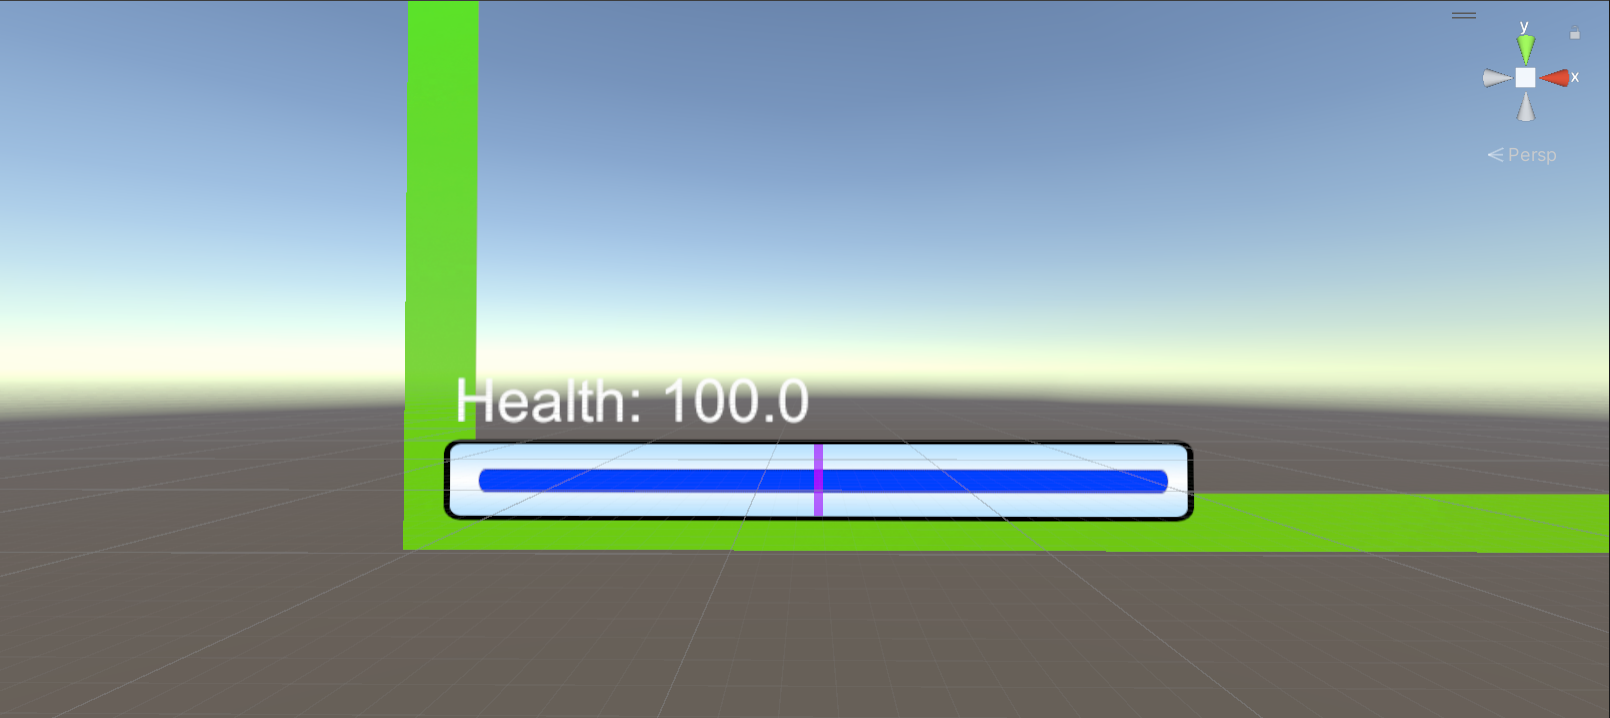
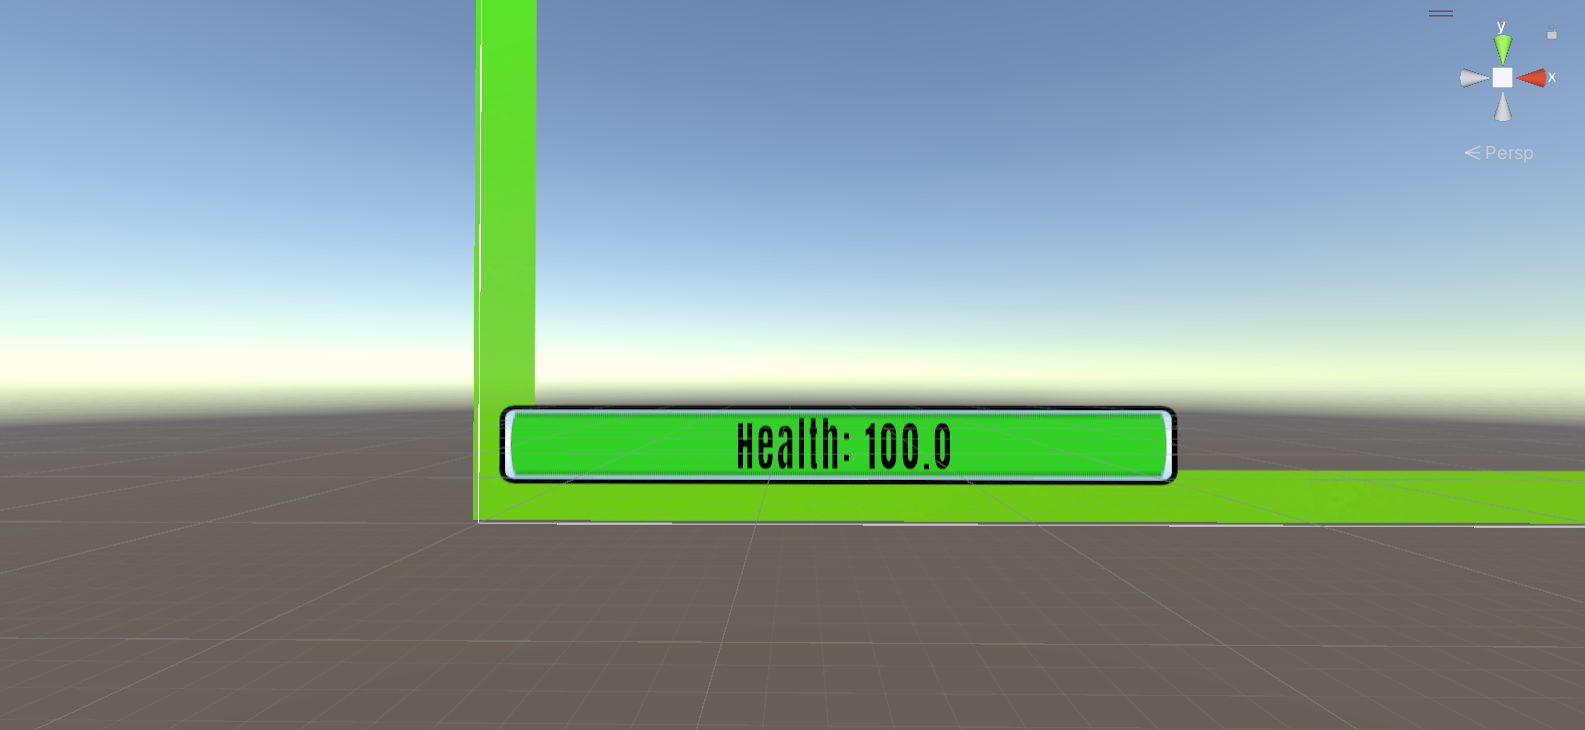
updated docs and added new images

diff --git a/docs/gettingStarted/Arena-Environment-Guide.md b/docs/gettingStarted/Arena-Environment-Guide.md
@@ -110,24 +110,28 @@ The controls are as follows:
 
 The agent has a HUD (_Heads-Up Display_) that displays the following information per episode by default:
 
-* **Health**: The health of the agent, which is a value between `0` and `1`. The agent's health decays over time, and is reset to `1` when the agent collects a reward. The agent's health is displayed as a blue-green-red bar at the bottom of the HUD.
-* **Reward**: The reward collected by the agent, which is a value between `-1` and `1`. The agent's reward is displayed as a text at the top of the HUD, which is updated in real-time as the agent collects rewards. It contains the previous episode's reward, as well as the current episode's reward, respectively.
-* **Episode**: The episode number, which is the number of episodes the agent has played in the arena. The episode number is displayed as a white number at the top of the HUD. **(This is a feature to be added in the future.)**
-* **Notification**: The notification displayed to the agent at the end of an episode. The notification is currently a combination of color gradients and a short animated GIF. This is an optional HUD and only appears if `showNotification` parameter is set to `true` in the configuration file. _Note that this feature has no effect on training, and is only used for playing the game._
+* **Health**: The health of the agent, which is a value between `0` and `1`. The agent's health decays over time, and is reset to `1` when the agent collects a reward. The agent's health is displayed as a green-yellow-red bar at the bottom of the HUD.
+* **Reward**: The reward collected by the agent, which is a value between `-1` and `1`. The agent's reward is displayed as a text at the top of the HUD, which is updated in real-time as the agent collects rewards. It contains the previous episode's reward (not valid if the current arena is the first), as well as the current episode's reward.
+* **Yaml File Details**: The YAML file details of the current yaml file used, which is displayed at the top-right of the HUD. This is an integer that contains the arena number out of total arenas, and the total number of objects spawned as an integer.
+* **Notification**: The notification displayed to the agent at the end of an episode. The notification is currently a combination of color gradients and a short animated GIF. This is an optional HUD and only appears if `showNotification` parameter is set to `true` in the configuration file. _Note that this feature has no effect on training, and is only used for play mode._
 
 |![](../../docs/figs/Agent-HUD/agent-health.png) | ![](../../docs/figs/Agent-HUD/agent-REWARD.png)|
 |---|---|
 |![](../../docs/figs/Agent-HUD/notification-bad.png) | ![](../../docs/figs/Agent-HUD/notification-good.png)|
+|![](../../docs/figs/Agent-HUD/yaml-file-data.png)
+
 
 ### Arena/Agent Limitations
 
-The arena has a few limitations, which are as follows:
+The arena/agent has a few limitations to be considered, which are as follows:
 
 1. Only a single agent _per_ arena is supported, both for play and training.
 2. The agent can only move on the ground, and cannot move on the walls.
 3. The agent cannot move through objects (except for the hot/death zones).
 4. The agent cannot jump or fly.
 5. The agent cannot pick up objects (however, this is a feature to be added in the future).
+6. The arena is reset _only_ when the health of the agent reaches `0`, or when the `R` key is pressed (in play mode). This is a limitation as the agent cannot reset the arena itself, and the arena can only be reset by the player or the training environment.
+7. The logic of spawning objects in the arena is fixed and currently prioritises the agent over other objects. Furthermore, the current spawn logic dictates that objects spawn in the order they are defined in the configuration file.
 
 ### Agent Properties
 

diff --git a/README.md b/README.md
@@ -36,36 +36,36 @@ The Animal-AI environment and packages are currently tested on **Windows 11**, *
 ## Features
 
 **Interdisciplinary Research Platform:**
-- Facilitates research in human, animal, and artificial cognition.
-- Supports cross-disciplinary studies.
-- Enables comparative assessments among humans, animals, and artificial intelligences.
+- Facilitates research in human, animal, and artificial cognition
+- Supports cross-disciplinary studies
+- Enables comparative assessments among humans, animals, and artificial intelligences
 
 **Comprehensive AI Environment:**
-- Includes a versatile environment for AI experiments, from basic to advanced configurations.
+- Includes a versatile environment for AI experiments, from basic to advanced configurations
 - Wrap Unity learning environments as a gym(nasium) environment
 - Wrap Unity learning environments as a PettingZoo environment
 
 **Extensive Task Library:**
-- Multiple example tasks.
-- 900 tasks from the Animal-AI Olympics.
-- Procedural Generation functionality
+- Multiple example tasks for getting started
+- 900 tasks from the Animal-AI Olympics competition
+- Procedural YAML Configuration File Generation
 
 **Unity Game Engine:**
-- Utilizes Unity ml-agents.
-- Leverages Unity game engine for advanced simulation capabilities.
-- Fast and robust wrapper.
+- Utilizes Unity ML-Agents toolkit for AI training
+- Leverages Unity game engine for advanced simulation capabilities
+- Fast and robust wrapper
 
 **Cross-Platform Compatibility:**
-- Compatible with Windows 11, Linux, and MacOS.
-- Supports Python 3.6.x and above.
+- Compatible with Windows 11, Linux, and MacOS
+- Supports Python 3.6.x and above
 
 **Control Modes:**
-- Player mode for interactive environment control, for human testing.
-- Training mode for Reinforcement Learning, with support for tensorflow analysis.
-- Supports AI model training across different systems.
+- Player mode for interactive environment control, for human testing
+- Training mode for Reinforcement Learning, with support for tensorflow analysis
+- Supports AI model training across different systems
 
 **Interactive and Dynamic Environment:**
-- Offers interactive elements for complex AI training.
+- Offers interactive elements for complex AI training
 - Supports dynamic environment generation (dynamic)
 
 
@@ -78,7 +78,7 @@ We've prepared a comprehensive set of tutorials to help you get started with the
 
 *See [here](/docs/gettingStarted/Installation-Guide.md) for a detailed installation guide.*
 
-([latest release](https://github.com/Kinds-of-Intelligence-CFI/animal-ai/releases/tag/v3.1.4)) / ([all releases](https://github.com/Kinds-of-Intelligence-CFI/animal-ai/releases))
+([latest release](https://github.com/Kinds-of-Intelligence-CFI/animal-ai/releases/tag/v4.0.0)) / ([all releases](https://github.com/Kinds-of-Intelligence-CFI/animal-ai/releases))
 
 For legacy builds of Animal-AI, please see ([legacy releases](/project/AAI-Versions-Archive.md))
 

diff --git a/CHANGELOG.md b/CHANGELOG.md
@@ -3,8 +3,20 @@
 This document records all notable changes to the Animal-AI project. It follows the [Keep a Changelog](http://keepachangelog.com/en/1.0.0/) format and adheres to [Semantic Versioning](http://semver.org/spec/v2.0.0.html). For an overview of the project's development, see the [Roadmap](/project/AAI-RoadMap.md).
 
 
-## Version 4.0.0 (coming soon)
-*No changes documented yet.*
+## Version 4.0.0 (Released on 08.03.2024)
+### Notes
+- _This release is a major update that moves away from the experimental phase and introduces a stable version of the Animal-AI environment._
+- _This release is backward incompatible with the previous version `v3.1.4.exp`, and agents trained on the previous version may work with this new version._
+
+### Added
+- New valanced objects: `DecayGoal` and `DecayGoalBounce`.
+- New UI for presenting data to the user: 
+- New csharp Script: `UIManager.cs`, for managing the UI and displaying data about the current YAML configuration file arenas and total spawned objects.
+
+### Changed
+- Updated to TMPro for text rendering in Unity, for better performance and flexibility in the UI.
+- Changed the layout of the UI to be more user-friendly and intuitive.
+- Changed UI text colours to be more accessible and readable.
 
 ---
 
